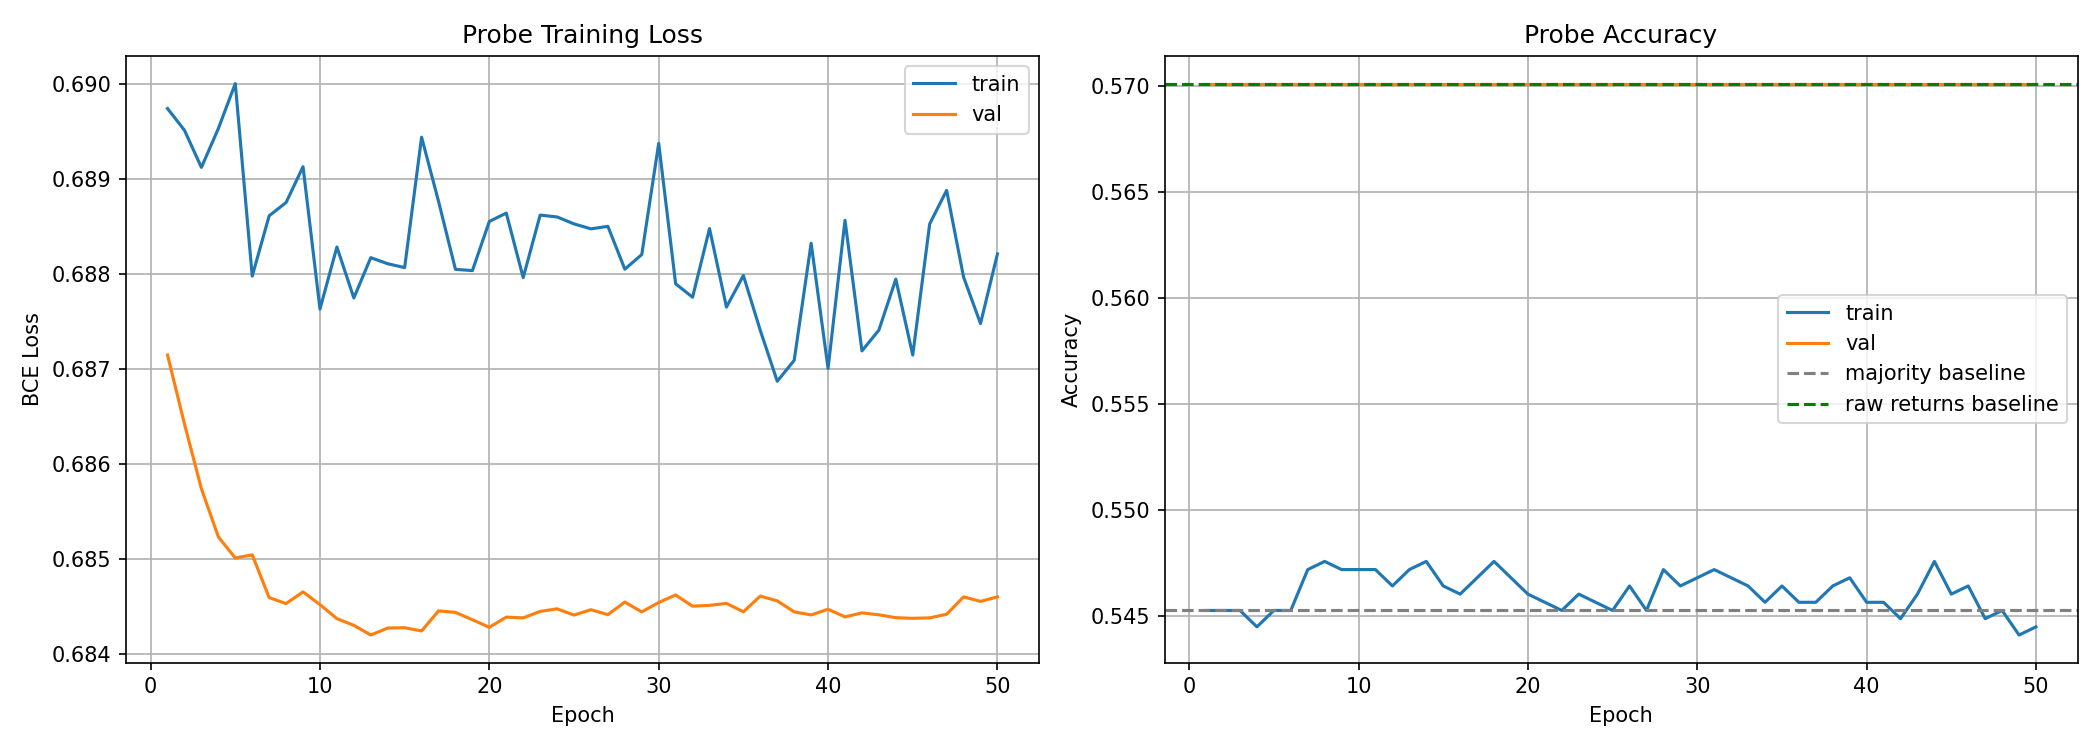
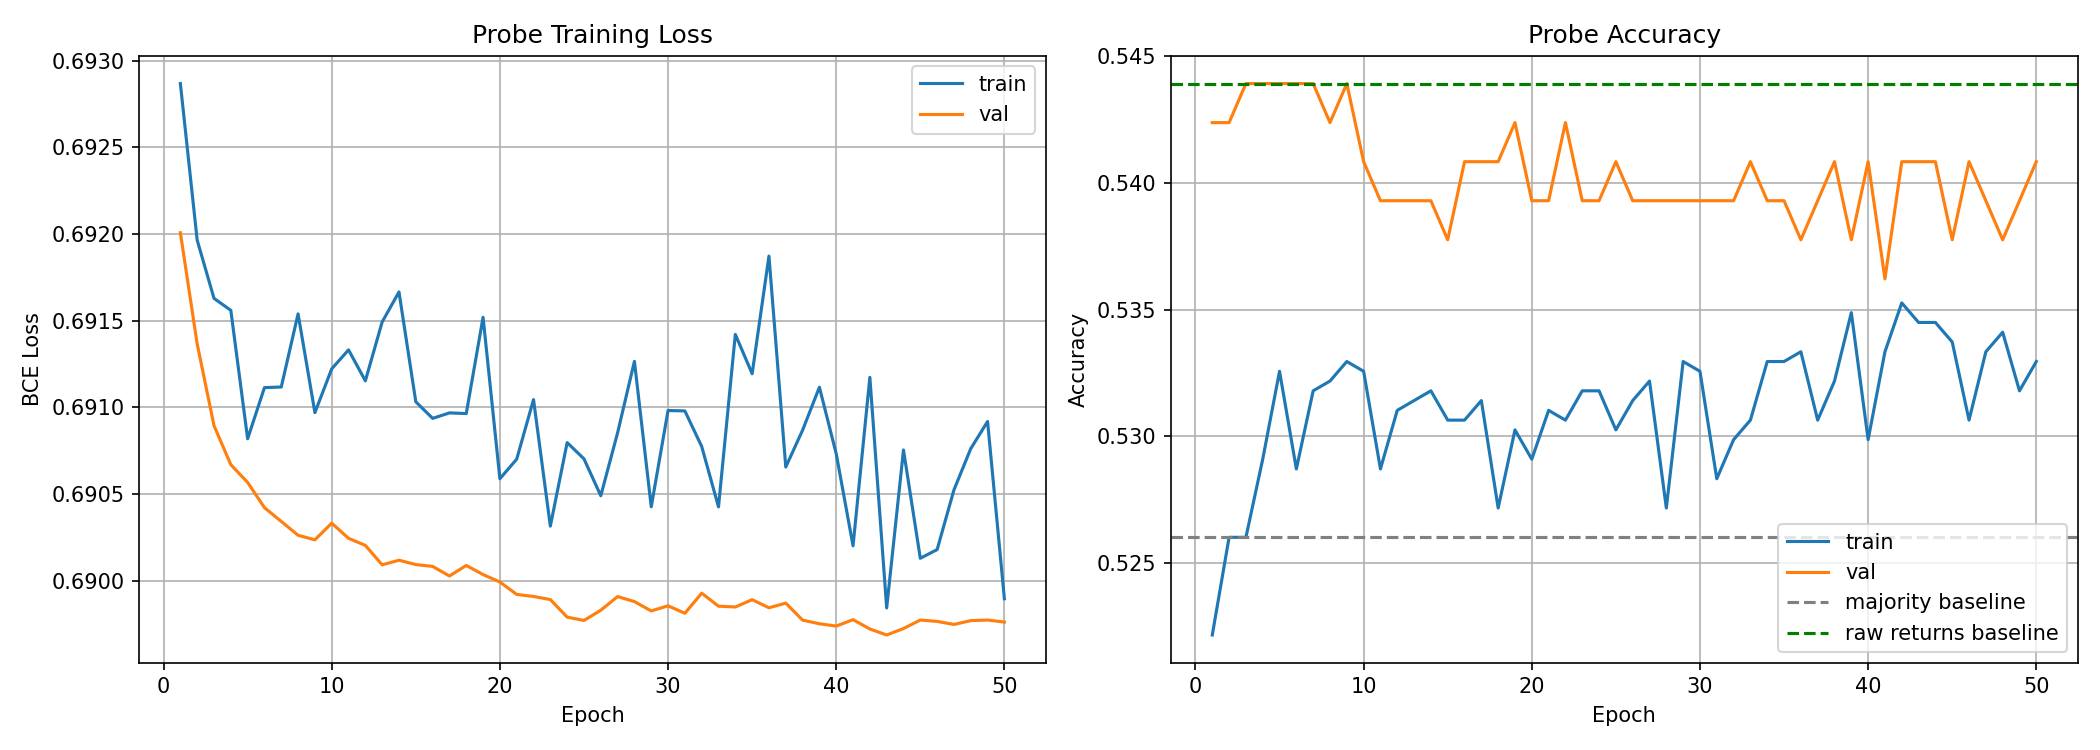
docs: update iteration-4 analysis with VNQ probe results and failure verdict

diff --git a/test_jepa_embeddings.py b/test_jepa_embeddings.py
@@ -27,7 +27,7 @@ TRAIN_PARQUET = "individual_stocks/parquet_data/sector_etf_clean_trainingset.par
 TEST_PARQUET  = "individual_stocks/parquet_data/sector_etf_clean_testingset.parquet"
 OUTPUT_DIR    = "jepa-model/analysis/iteration-4"
 DEVICE        = "cuda" if torch.cuda.is_available() else "cpu"
-PROBE_TICKER  = "XLK"
+PROBE_TICKER  = "VNQ"
 NUM_PROBE_EPOCHS = 50
 
 ENC_DIM_IN        = 49
